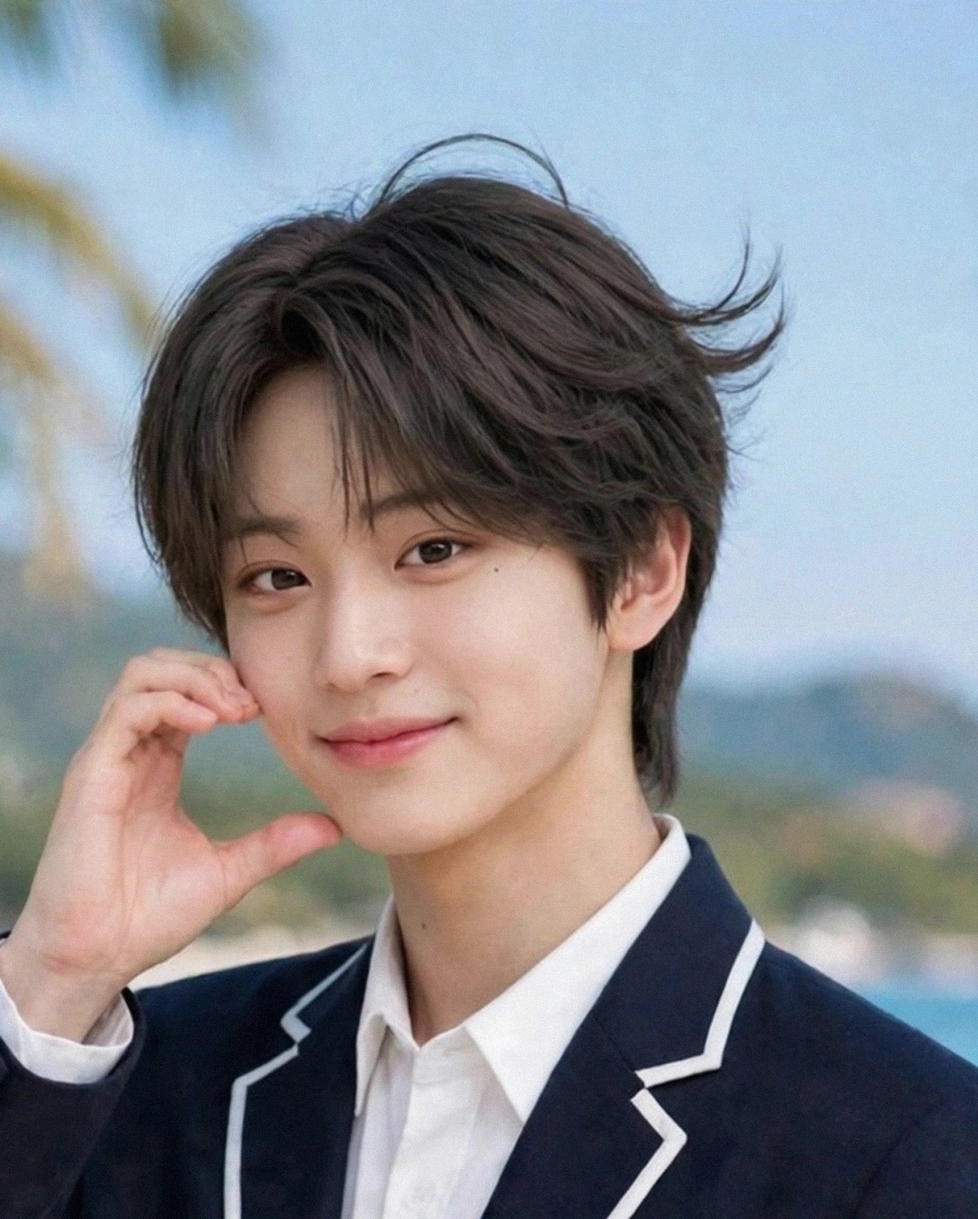
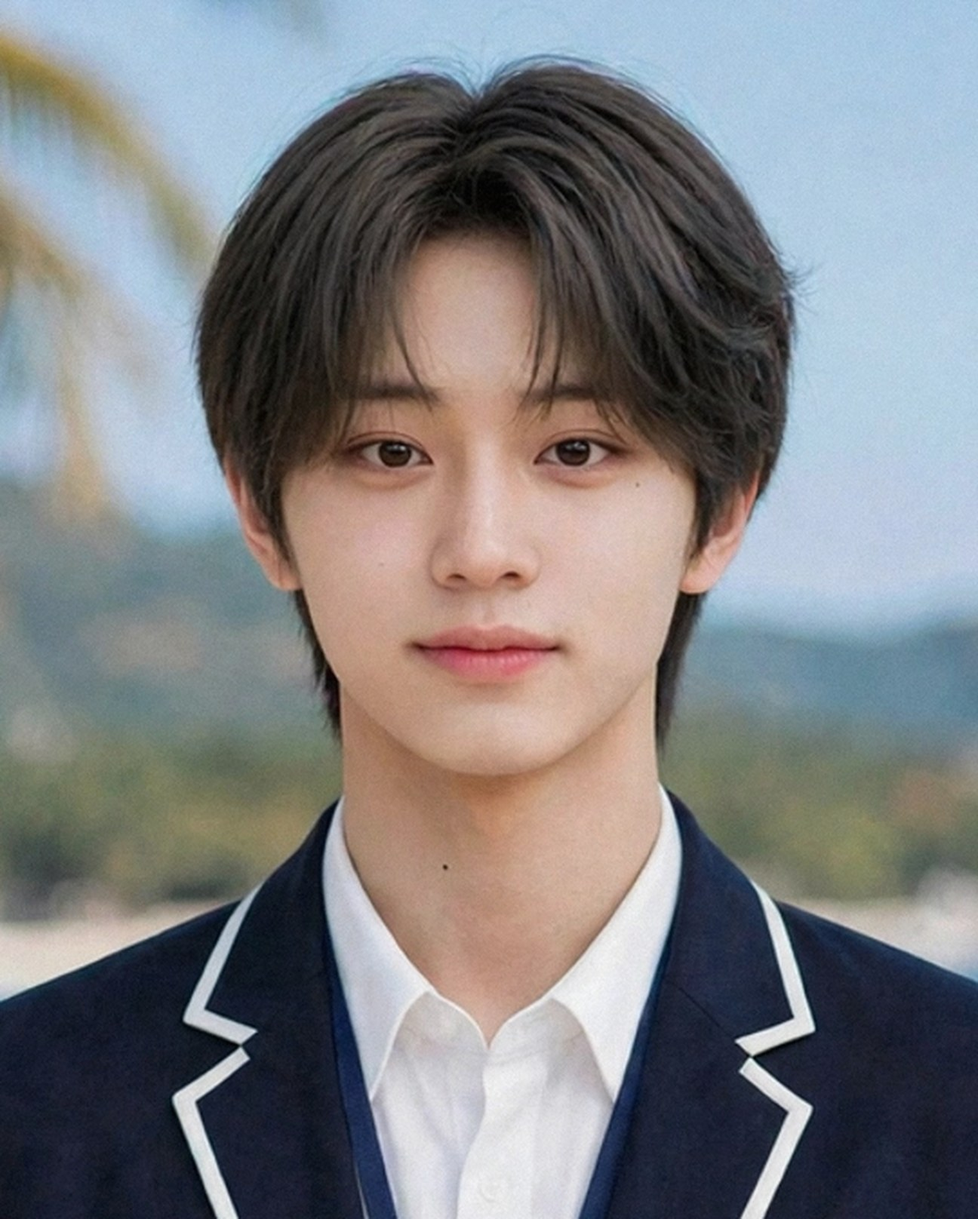
v173: プロフィール正面化（2023はstandard-finalに復帰＋寄り作り直し、2021は正面の公式プロフィールに再生成）

diff --git a/index.html b/index.html
@@ -820,7 +820,7 @@ body{font-family:-apple-system,"Hiragino Kaku Gothic ProN","Noto Sans JP",sans-s
 <script>
 "use strict";
 const $=s=>document.querySelector(s);
-const VER="v172";
+const VER="v173";
 /* ============ state ============ */
 const DEF={idx:0,started:false,consented:false,soundOn:true,
  g:{iwakan:0,bare:0,todoita:0,uta:8,dance:4,ishi:50},
@@ -2600,7 +2600,7 @@ function renderSettings(tab){setTab=tab;document.querySelectorAll("#set-tabs but
  <div class="srow"><span>到達した結末</span><span class="sv">${S.trueEnd?"TRUE END ― 現在":S.normalEnd?"END ― 通常現在":S.loopBad?"BAD END ― ループ継続":S.bareEnd?"END ― 秘密バレIF":S.ridatsuEnd?"END ― 離脱した現在":"（まだ到達していません）"}</span></div>
  <div class="srow"><span>サウンド</span><span class="sv"><button id="snd-btn" style="background:${S.soundOn!==false?"#17172a":"#c6c6d4"};color:#fff;border:none;border-radius:999px;padding:6px 18px;font-size:12.5px;font-weight:700;cursor:pointer">${S.soundOn!==false?"ON":"OFF"}</button></span></div>
  <div class="srow"><span>フィクション</span><span class="sv">実在の記録をもとにした創作です</span></div>
- <div class="srow"><span>アップデート</span><span class="sv">v16 サウンドと画面遷移／v17 差分再演REPLAYとDiff時代別表示／v18 現在の小さな変化／v19 トークのスレッドとフリーチャット／v20・v23・v32 場面カットの追加／v21 日常回（食堂の夜・売店の夜）／v22 番組アプリの情報デザイン／v24 ホーム背景の時代連動と進行％／v25 タイトルのスライドショー／v26 彼の画面のカウンタ／v27 ロック画面の通知スタック／v28 写真の全画面ビューア／v30 章ごとの記録カード／v31 フィナーレ直前の彼の視点／v33 フリーチャットの時代別応答／v34 投票レシート／v35 ミッション進捗バー／v36 ゲージの危険域表示／v37 選んだ記録の判別表示／v38 台帳の時代別表示／v39 Keepsakeの時代バッジ／v41 章名つきロック画面／v42 トークの新着バッジ／v43 名簿の詳細パネル／v44 写真のスワイプ送り／v45 BGMの時代連動／v46 順位・差分の専用SE／v47 長押し早送り／v48 章セレクト／v50 REPLAY再演の追加／v52 日常回（コンビニの夜）／v53 タイトル通知のセーブ連動／v54 アプリアイコンのバッジ／v55 主人公の正式名「三浦渚央」と2019プロフィールの新フェイス差し替え／v56〜v59 プロフィール・場面カットの新フェイス再生成／v60 カード画角の統一（頭部55〜60%）と三浦渚央の順位表示／v61 名簿メモへの順位追記と凡例／v62 周B順位発表の彼の視点／v63 ストーリーバナーのサムネ時代連動／v64 タイトルに正式名／v65 ロック画面に順位通知／v66 情報タブに順位の記録／v67 順位行の文字色修正／v68 現在の小さな変化（順位の残響）／v69 写真メモに順位結果／v70 節目 ― 全アプリ走査／v71 フリーチャットの話題追加／v72 トークのチップ追加／v73・v74 順位タブの空状態整理／v75 順位変動のDiff記録／v76 節目 ― 全アプリ走査／v77 2021周A・初回ステージ後に彼の画面を追加／v78 2023周A・ファンカム章に彼の視点（インライン）を追加／v79 2019周A・順位発表式に彼の視点（インライン）を追加／v80 2023周A・VERY NICE本番前に彼の視点（インライン）を追加／v81 2023周A・寮の夜に彼の視点（インライン）を追加／v82 2019周A・届くはずのなかった手紙に彼の視点（インライン）を追加／v83 フリーチャットの話題拡充（2019専用プール＋新キーワード6種＋チップ追加）／v84 周Aの彼の記憶の線引きで全監査（2021・2023到着場面と彼の画面3件を連続した同僚の前提に書き換え）／v85 2019周A・練習室の夜に彼の視点（インライン）を追加／v86 2021周A・寮の一夜に彼の視点（インライン）を追加／v87 2023周A・コンビニの夜に彼の視点（インライン）を追加／v88 台帳・Keepsake・Diffの時代分類を修正（NXD期グループ新設、誤分類6件を是正）／v89 場面カット追加（2023順位発表の夜・face2基準で新規生成）／v90 場面カット追加（2021ファイナルの夜・face2基準で新規生成）／v91 節目 ― 全アプリ走査／v92 日常回「自販機の夜」（2023・周B）を追加／v93 2019周A・レベル分け評価に彼の視点（インライン）を追加／v94 写真アプリに時代別グルーピング（見出し＋枚数）を追加／v95 場面カット追加（NXD期・夜の練習室、face2基準で新規生成）／v96 フリーチャットの時代別プールを拡充（各時代＋2件）／v97 2019周B・発覚に彼の視点（インライン）を追加／v98 2021周B・再会に彼の視点（インライン）を追加／v99 2023周B・発覚に彼の視点（インライン）を追加／v100 節目 ― 全編通しプレイ検証／v101 効果音の配線追加（台帳・Keepsake・彼の視点）／v102 トークに彼のメッセージを3件追加／v103 タイトルのスライドショー拡充（8枚）とホーム背景のNXD期差し替え／v104 2023周B・再会に彼の視点（インライン）を追加／v105 2021周B・売店の夜に彼の視点（インライン）を追加／v106 NXD期・周B「移籍の決断」に彼の視点（インライン）を追加／v107 2023周B・共同作戦に彼の視点（インライン）を追加／v108 2019周B・共同作戦（ツカメ対策）に彼の視点（インライン）を追加／v109 2021周B・共同作戦に彼の視点（インライン）を追加／v110 NXD期・周B「延期の季節 ― 二度目」に彼の視点（インライン）を追加／v111 フリーチャット拡充（キーワード応答3種・チップ2件・現在編プール拡充）／v112 節目 ― 全アプリ走査／v113 2023周B・自販機の夜に彼の視点（インライン）を追加／v114 2019周A・食堂の夜に彼の視点（インライン）を追加／v115 2021周B・順位発表の締めに彼の視点（インライン）を追加／v116 設計ドキュメントの実装状況を更新／v117 場面カット追加（2019食堂の夜・face2基準で新規生成）／v118 場面カット追加（2021売店の夜・face2基準で新規生成）／v119 場面カット追加（2023コンビニの夜・face2基準で新規生成）／v120 背景の差し替え（現在編の冒頭とソロデビューの場面）／v121 節目 ― 全編通しプレイ検証（v101〜v120の追加後）／v122 画像出典メモ（IMAGE_SOURCES.md）に新規カット6点とface2基準を追記／v123 READMEの状態表記を現行（本編完結・公開中）に更新／v124 視覚QAで発見した順位タブの防御的修正（順位値の欠損時に最低ラインへフォールバック）／v125 節目 ― 全画面の視覚QA（撮影確認）／v126 節目 ― 別エンディング到達検証（秘密バレIF・離脱した現在）／v127 節目 ― 全5エンディング到達検証の完了（通常現在・ループ継続BADを追加確認）／v128 設計ドキュメントの実装状況に最終検証結果を追記／v129 READMEの現行版表記を更新／v130 生成メタファイルを .gitignore に追加して作業ツリーを整理／v131 「届くはずのなかった手紙」に背景を設定（食堂カットの引き継ぎを解消）／v132 フリーチャットの応答拡充（キーワード応答8種・時代別プール各+2件・チップ2件を追加）／v133 仕上げのUI調整（ホームのアプリアイコンのラベルの可読性を向上、ストーリー画面のゲージチップを均等な3+3配置に整形）／v134 フリーチャットに語学の話題を追加（中国語・韓国語・英語へのキーワード応答）／v135 節目 ― 朝まで改修の最終版（全アプリ走査・ドキュメント同期）／v136 トークを実物化（1相手=1スレッドに集約・未読バッジ・プレビュー・実物時刻・日付チップ・自分の送信への既読表示。仕組みは『現役アイドル、Tinderやってた件』のLINEと『キープ管理中！』の未読管理から移植）／v137 2021・2023の渚央プロフィールを制服版に統一（創造営の紺制服／ボイプラの淡グレー制服。名簿・順位・パネル・背景・写真の参照を全て profile-uniform 系へ）／v138 ロック画面とホームの実物化（主通知の送信者を実アプリ名にし未読トークがあれば最新メッセージを表示、日付を月日＋曜日の実物形式に、ホームと写真の操作説明文を撤去）／v139 トークをTinder版（v462）LINEと実測比較して一致（バブルの角・色・文字サイズ、入力欄、送信ボタン、日付チップ、一覧の行構成と検索ボックス、スレッドヘッダーのアバター）／v140 トークにLINEアプリのシェルを移植（下部タブバー＋タブ画面を新設。タブの数・並び・切替挙動はTinder版LINEと同一で、ホームタブは三浦渚央のプロフィール＋届いた応援カード＋友だちリストのパネル、ニュースは番組アプリ、その他は設定・記録へ接続）／v141 ロック画面の進化（時計を88px・太字に、通知カードをblur20px＋saturateの実物仕様にして幅を統一、スタック通知のアイコンをアプリ別SVGに分けて出現をスタッガード化。ステータスバーと電池％を追加し、壁紙を時代連動＋緩やかなズームに。下部のライトは白フラッシュが光る実働ボタンに、カメラは写真アプリへ直行。通知はタップで該当アプリ・記録へ遷移）／v142 ホーム画面の進化（Tinder版ホームのページ構成を移植：飾りだったドットを実働の2ページ化にし、横スワイプとドットタップで切替。2ページ目に物語暦のカレンダーウィジェットと時代のカットが切り替わる写真ウィジェットを新設し、記録サマリと次のミッションを移設。ドットの横に検索ピルを追加し、アプリ・記録を検索して直接開けるシートを実装。下部にガラスのドック（トーク／写真／番組アプリ／設定・記録、バッジ連動）を追加。ステータスバーに電池％、壁紙に緩やかなズーム）／v143 ロック画面の通知スタックの隙間を修正（ベースCSSの上マージン34pxがスタック内の通知にも効いて間隔が42pxに広がっていたのを、実物どおり8pxに統一。あわせて通知領域を時計の下〜下部ボタンの上のスクロール領域にして、通知が多くてもライト／カメラのボタンやヒント文字に重ならないようにした）／v144 写真アプリの進化（『現役アイドル、Tinderやってた件』の写真アプリから移植：2列カード型だったグリッドを3列・隙間2px・正方形の実物仕様にし、時代見出し＋枚数のヘッダーと上部のピル型タブ（すべて／時代別で絞り込み）を新設。ビューアはお気に入り（セーブに保持、グリッドにもハート表示）とスライドショーを追加し、送りを循環式から端で止まるクランプ式に変更、キャプション＋差分メモ＋時代＋通し番号のメタ表示とキー操作に対応。複数選択モード（最大4枚）からコラージュを作成でき、ロック画面の壁紙にも設定できる（時代連動に戻す導線つき）。中身の時代別カットと枚数は従来どおり）／v145 アプリアイコンをTinder版の様式に統一（アイコンを全面SVG化し、背景レイヤーまで1枚に収める方式へ。トーク＝LINE・写真・設定・記録はTinder版と同型のアイコンに、番組アプリは金の縦グラデーション＋王冠のグリフで同水準に。アイコンの角丸と影もTinder版の実測値に一致。あわせてラベル用ピルのCSSがドックのアイコンにも漏れて円形になっていた不具合を修正し、ドックでもグリッドと同じ角丸アイコンが並ぶようにした）／v147 渚央の顔を最終基準（本人の写真由来の顔＋クールな髪型）へ差し替え開始。2023編のプロフィール（基準画像そのものへ差し替え、カード用クロップも新基準で作成）と場面カット全8点を基準顔で再生成／v148 2021編を新基準へ差し替え（プロフィールは19歳相当＋創造営制服＋屋外背景で新規生成、カード用クロップも作成。場面カット5点＝daily／practice／ranking-close／study／shop-nightを19歳相当の基準顔で再生成。stageは次版で差し替え予定）／v149 2019編を新基準へ全面差し替え（プロフィールは17歳相当で再生成し直し、カード用クロップも新規作成。場面カット7点＝stage／stage2／dorm／practice／ranking-close／selfie／cafeteriaを17歳相当の基準顔で再生成）。リンクプレビュー用のog:image（新stageから作成）も新設／v150 旧素材（候補ファイル群・旧プロフィール）を保管庫へ退避し、顔素材を新基準のラインに統一（表示内容の変更なし）／v151 2021のステージカットを新顔基準（19歳版）で差し替え、顔の全面差し替えが完了／v153 2021プロフィールに創造営の学員証を追加（メンバーが付けている装着物に合わせた。2019は名札が既存仕様どおり、2023は装着物なしが実物どおり）。<br>v152 全時代のプロフィールをポーズ付きに作り直し（2019＝ガッツポーズの全身ショット、2021＝頬ハートの膝上ショット、2023＝腕組みのウエスト上ショット。顔は新基準のラインを維持し、寄りクロップも新しい全身から作り直し）<br>v154 全身カットの脚の比率を修正（2019・2021の練習室カットを脚長・細身のモデル体型プロポーションで再生成。構図・ポーズ・顔は維持）<br>v155 鼻の大きさを基準顔に修正（2019ステージカットと順位発表カットの鼻を、基準の小さく細い鼻筋＋小さく上向きの鼻先に寄せて再生成。構図・衣装・表情は維持）<br>v156 「彼の画面」を現代のモバイルADV風に作り替え（時代の場面カットをぼかしたシネマティック背景＋暗グラデーション、大翔のアバター＋名前チップのヘッダー、進行は紫ピルをやめてグラデーションのプログレスバー＋控えめな件数表示に。心の声は字幕風の中央テキスト＋ヘアライン区切り、セリフはガラス質の吹き出しカードにし、金枠と紫イタリックを廃止。終わりは白ピルの「戻る」ボタン。本文・分岐・ゲージの仕様は不変。物語内の彼の視点カードも同じ質感に統一）<br>v157 番組アプリのリアル化（お知らせタブを新設し、時代と進行に連動する事務局・投票・コンテンツ通知を掲載。結果のお知らせからは順位タブへ遷移。名簿の詳細をプロフィールページ化：ヒーロー写真＋名前オーバーレイ＋区分・番組の情報行＋順位の記録テーブル（彼の初回12位など史実と周ごとの結果を、発表済みの分だけ表示）＋渚央のスキルバー。順位タブの大翔・渚央の周B行に前回比の変動チップ▲を追加）<br>v158 設定・記録のリアル化（情報タブをiOS設定風に：作品情報／いまの記録／サウンド／履歴のグループカード化、サウンドはピルボタンからiOSトグルスイッチに、長いアップデート履歴は開閉式に収納。表示テキストは全て従来どおり。ゲージ・台帳・Keepsake・Diff・章の各タブはカード型の行＋チップ見出しで履歴・メモ系UIの質感に統一。ゲージ説明や順位計算などの仕様・文言は不変）<br>v162 周Bの記憶ルールを新仕様に統一（彼の記憶は周B開始時＝2019年の再会で大周回Aの全部が一度に戻る。旧仕様「時代ごとに、その時代ぶんが順に戻る」は廃止。2019編の発覚を全部戻った前提の大きな一場面に書き直し、2021・2023編の再会は「その時代の記憶が戻る・既視感から確信」ではなく確認と共同作戦の続きに書き換え。彼の視点・幕間・ロック画面の通知文も同じ前提に統一。ゲージ・分岐・順位計算などの数値仕様は不変）<br>v163 2019の2点（ステージ／順位発表の寄り）の鼻を再修正（v155で小さく寄りすぎていたものを、基準顔の比率どおりの自然な大きさに戻して再生成。顔・構図・衣装は維持。og画像も新しいステージカットから作り直し）<br>v164 2019のプロフィールを実物どおりの素立ちバストショットに戻した（PRODUCE 101 JAPANの公式プロフィールはポーズなしの素立ちが実物のため、v152のガッツポーズ全身は2019に限って撤回。グレーブレザー＋青チェックタイ＋名札は維持し、寄りクロップも新しいバストショットから作り直し。他時代のプロフィールは各時代の公式写真に合わせる原則どおり据え置き）<br>v165 周Bの順位に下限（フロア）を保証（大翔の周B順位は、プレイ内容によらず必ず周Aより上になるよう最低上昇幅を保証：2019は35位以下にならない／2021は14位以下にならない／2023は20位以下にならない。デビュー圏外の上限＝従来どおり。渚央の周B順位36／16／19位が周A 38／18／22位より上であることも全時代で再確認。計算式そのものと、届いた数の扱いなどの仕様文言は不変）<br>v166 楽曲が分かる場面カットの衣装を当時の実物に合わせて作り直し（2021ステージ＝創造営2021・初評級ステージの曲目 MAMAMOO『HIP -Japanese ver.-』でRBWチームが着た赤のスパンコール・オーバーサイズトップス＋黒カーゴに変更。従来の龍刺繍ジャケットは当時の衣装ではないため差し替え。2023ファンカム2点目（エンディング妖精）と新規ステージカット＝BOYS PLANET『VERY NICE』Gグループの実物衣装（白ベレー帽＋オレンジ×白の太ボーダーのラガーシャツ）に変更し、新規カットは周A・周B両方のVERY NICE本番場面の背景に配線。根拠は本人の公式直カムサムネイル等の実物資料）／v167 周Bは二人ともファイナルまで残る仕様に変更（本人の決定）：大翔の周B順位帯をファイナリスト範囲へ（2019：12〜20位／2023：実効14〜18位。2021は従来の計算で12〜14位＝範囲内のため据え置き）、渚央の周B順位を2019：17位・2023：14位に変更（2021：16位は据え置き）。順位行・名簿メモ・彼の視点・現在インタールードのテロップ・2019／2023編Bの順位発表の文章をファイナル到達で整合。デビューできない結末（Canon Lock 第1層）は不変／v168 周B 2019編にコンセプト評価『やんちゃBOYやんちゃGIRL』の場面を追加（本人の確定指定）：史実でも大翔はマッチング投票で同曲のセンター・サブボーカルに選ばれていたが第2回発表36位で脱落し立てなかったため、周Bでは二人とも同じチームで実際に立つ形にした（周Aの渚央は第2回発表で脱落するため登場しない）。衣装は実物（紺の学ラン風ブレザー＋白パイピング＋黄ストライプシャツ＋手紙の小道具）に合わせた新規カットを追加／v169 衣装ルールを訂正（本人の指示）：大翔とまったく同じ衣装はNGで、系統（色味・素材感・コンセプト）だけ合わせて別デザインにする。創造営の赤スパンコールは系統（赤）を保ちつつギラギラを抑えた洗練デザイン（マットな深紅のシャツジャケット＋黒ワイドパンツ）に作り直し。VERY NICEの3点（ファンカム／ステージ／寄り）も大翔と同一だった白ベレー＋太ボーダーラガーをやめ、オレンジ×白の系統を保った別デザイン（細ボーダーのニットポロ＋白ワイドパンツ）に統一して作り直し。2原則は docs/ASSETS_NAO.md の衣装ルールに記録／v170 プロフィール画像の質感を各時代の公式写真に合わせた（本人の指摘「画質がクリアすぎる」）：プロフィール系8点（2019フル／寄り、2021制服／寄り／寄り（人気表示用）、2023制服／寄り／寄り（人気表示用））に、軽い縮小→拡大によるシャープさ低減＋微粒子グレイン＋コントラスト抑制の後処理を時代別に適用。2019を最強に処理。顔そのもの（基準顔・比率）は不変。生成基準マスターの standard-final は対象外／v171 番組アプリの表示修正（タブの折り返しを解消、名簿カードのメタ文の折り返しと高さを統一、名簿詳細を背面が漏れないプロフィールページ表示に変更）／v172 女の子らしさの監査と修正（本人の指摘）：表示中の渚央カット全点を「男性練習生として読めるか」で監査し、逸脱した4点（2023 VERY NICEの個人ファンカム／ステージ／寄り、2019 やんちゃBOYやんちゃGIRL）を作り直した。基準顔は維持し、髪を短めですっきりした男性ヘアに、表情と雰囲気を少年の爽やかさ側に寄せた。衣装の系統と構図は維持</span></div>
+ <div class="srow"><span>アップデート</span><span class="sv">v16 サウンドと画面遷移／v17 差分再演REPLAYとDiff時代別表示／v18 現在の小さな変化／v19 トークのスレッドとフリーチャット／v20・v23・v32 場面カットの追加／v21 日常回（食堂の夜・売店の夜）／v22 番組アプリの情報デザイン／v24 ホーム背景の時代連動と進行％／v25 タイトルのスライドショー／v26 彼の画面のカウンタ／v27 ロック画面の通知スタック／v28 写真の全画面ビューア／v30 章ごとの記録カード／v31 フィナーレ直前の彼の視点／v33 フリーチャットの時代別応答／v34 投票レシート／v35 ミッション進捗バー／v36 ゲージの危険域表示／v37 選んだ記録の判別表示／v38 台帳の時代別表示／v39 Keepsakeの時代バッジ／v41 章名つきロック画面／v42 トークの新着バッジ／v43 名簿の詳細パネル／v44 写真のスワイプ送り／v45 BGMの時代連動／v46 順位・差分の専用SE／v47 長押し早送り／v48 章セレクト／v50 REPLAY再演の追加／v52 日常回（コンビニの夜）／v53 タイトル通知のセーブ連動／v54 アプリアイコンのバッジ／v55 主人公の正式名「三浦渚央」と2019プロフィールの新フェイス差し替え／v56〜v59 プロフィール・場面カットの新フェイス再生成／v60 カード画角の統一（頭部55〜60%）と三浦渚央の順位表示／v61 名簿メモへの順位追記と凡例／v62 周B順位発表の彼の視点／v63 ストーリーバナーのサムネ時代連動／v64 タイトルに正式名／v65 ロック画面に順位通知／v66 情報タブに順位の記録／v67 順位行の文字色修正／v68 現在の小さな変化（順位の残響）／v69 写真メモに順位結果／v70 節目 ― 全アプリ走査／v71 フリーチャットの話題追加／v72 トークのチップ追加／v73・v74 順位タブの空状態整理／v75 順位変動のDiff記録／v76 節目 ― 全アプリ走査／v77 2021周A・初回ステージ後に彼の画面を追加／v78 2023周A・ファンカム章に彼の視点（インライン）を追加／v79 2019周A・順位発表式に彼の視点（インライン）を追加／v80 2023周A・VERY NICE本番前に彼の視点（インライン）を追加／v81 2023周A・寮の夜に彼の視点（インライン）を追加／v82 2019周A・届くはずのなかった手紙に彼の視点（インライン）を追加／v83 フリーチャットの話題拡充（2019専用プール＋新キーワード6種＋チップ追加）／v84 周Aの彼の記憶の線引きで全監査（2021・2023到着場面と彼の画面3件を連続した同僚の前提に書き換え）／v85 2019周A・練習室の夜に彼の視点（インライン）を追加／v86 2021周A・寮の一夜に彼の視点（インライン）を追加／v87 2023周A・コンビニの夜に彼の視点（インライン）を追加／v88 台帳・Keepsake・Diffの時代分類を修正（NXD期グループ新設、誤分類6件を是正）／v89 場面カット追加（2023順位発表の夜・face2基準で新規生成）／v90 場面カット追加（2021ファイナルの夜・face2基準で新規生成）／v91 節目 ― 全アプリ走査／v92 日常回「自販機の夜」（2023・周B）を追加／v93 2019周A・レベル分け評価に彼の視点（インライン）を追加／v94 写真アプリに時代別グルーピング（見出し＋枚数）を追加／v95 場面カット追加（NXD期・夜の練習室、face2基準で新規生成）／v96 フリーチャットの時代別プールを拡充（各時代＋2件）／v97 2019周B・発覚に彼の視点（インライン）を追加／v98 2021周B・再会に彼の視点（インライン）を追加／v99 2023周B・発覚に彼の視点（インライン）を追加／v100 節目 ― 全編通しプレイ検証／v101 効果音の配線追加（台帳・Keepsake・彼の視点）／v102 トークに彼のメッセージを3件追加／v103 タイトルのスライドショー拡充（8枚）とホーム背景のNXD期差し替え／v104 2023周B・再会に彼の視点（インライン）を追加／v105 2021周B・売店の夜に彼の視点（インライン）を追加／v106 NXD期・周B「移籍の決断」に彼の視点（インライン）を追加／v107 2023周B・共同作戦に彼の視点（インライン）を追加／v108 2019周B・共同作戦（ツカメ対策）に彼の視点（インライン）を追加／v109 2021周B・共同作戦に彼の視点（インライン）を追加／v110 NXD期・周B「延期の季節 ― 二度目」に彼の視点（インライン）を追加／v111 フリーチャット拡充（キーワード応答3種・チップ2件・現在編プール拡充）／v112 節目 ― 全アプリ走査／v113 2023周B・自販機の夜に彼の視点（インライン）を追加／v114 2019周A・食堂の夜に彼の視点（インライン）を追加／v115 2021周B・順位発表の締めに彼の視点（インライン）を追加／v116 設計ドキュメントの実装状況を更新／v117 場面カット追加（2019食堂の夜・face2基準で新規生成）／v118 場面カット追加（2021売店の夜・face2基準で新規生成）／v119 場面カット追加（2023コンビニの夜・face2基準で新規生成）／v120 背景の差し替え（現在編の冒頭とソロデビューの場面）／v121 節目 ― 全編通しプレイ検証（v101〜v120の追加後）／v122 画像出典メモ（IMAGE_SOURCES.md）に新規カット6点とface2基準を追記／v123 READMEの状態表記を現行（本編完結・公開中）に更新／v124 視覚QAで発見した順位タブの防御的修正（順位値の欠損時に最低ラインへフォールバック）／v125 節目 ― 全画面の視覚QA（撮影確認）／v126 節目 ― 別エンディング到達検証（秘密バレIF・離脱した現在）／v127 節目 ― 全5エンディング到達検証の完了（通常現在・ループ継続BADを追加確認）／v128 設計ドキュメントの実装状況に最終検証結果を追記／v129 READMEの現行版表記を更新／v130 生成メタファイルを .gitignore に追加して作業ツリーを整理／v131 「届くはずのなかった手紙」に背景を設定（食堂カットの引き継ぎを解消）／v132 フリーチャットの応答拡充（キーワード応答8種・時代別プール各+2件・チップ2件を追加）／v133 仕上げのUI調整（ホームのアプリアイコンのラベルの可読性を向上、ストーリー画面のゲージチップを均等な3+3配置に整形）／v134 フリーチャットに語学の話題を追加（中国語・韓国語・英語へのキーワード応答）／v135 節目 ― 朝まで改修の最終版（全アプリ走査・ドキュメント同期）／v136 トークを実物化（1相手=1スレッドに集約・未読バッジ・プレビュー・実物時刻・日付チップ・自分の送信への既読表示。仕組みは『現役アイドル、Tinderやってた件』のLINEと『キープ管理中！』の未読管理から移植）／v137 2021・2023の渚央プロフィールを制服版に統一（創造営の紺制服／ボイプラの淡グレー制服。名簿・順位・パネル・背景・写真の参照を全て profile-uniform 系へ）／v138 ロック画面とホームの実物化（主通知の送信者を実アプリ名にし未読トークがあれば最新メッセージを表示、日付を月日＋曜日の実物形式に、ホームと写真の操作説明文を撤去）／v139 トークをTinder版（v462）LINEと実測比較して一致（バブルの角・色・文字サイズ、入力欄、送信ボタン、日付チップ、一覧の行構成と検索ボックス、スレッドヘッダーのアバター）／v140 トークにLINEアプリのシェルを移植（下部タブバー＋タブ画面を新設。タブの数・並び・切替挙動はTinder版LINEと同一で、ホームタブは三浦渚央のプロフィール＋届いた応援カード＋友だちリストのパネル、ニュースは番組アプリ、その他は設定・記録へ接続）／v141 ロック画面の進化（時計を88px・太字に、通知カードをblur20px＋saturateの実物仕様にして幅を統一、スタック通知のアイコンをアプリ別SVGに分けて出現をスタッガード化。ステータスバーと電池％を追加し、壁紙を時代連動＋緩やかなズームに。下部のライトは白フラッシュが光る実働ボタンに、カメラは写真アプリへ直行。通知はタップで該当アプリ・記録へ遷移）／v142 ホーム画面の進化（Tinder版ホームのページ構成を移植：飾りだったドットを実働の2ページ化にし、横スワイプとドットタップで切替。2ページ目に物語暦のカレンダーウィジェットと時代のカットが切り替わる写真ウィジェットを新設し、記録サマリと次のミッションを移設。ドットの横に検索ピルを追加し、アプリ・記録を検索して直接開けるシートを実装。下部にガラスのドック（トーク／写真／番組アプリ／設定・記録、バッジ連動）を追加。ステータスバーに電池％、壁紙に緩やかなズーム）／v143 ロック画面の通知スタックの隙間を修正（ベースCSSの上マージン34pxがスタック内の通知にも効いて間隔が42pxに広がっていたのを、実物どおり8pxに統一。あわせて通知領域を時計の下〜下部ボタンの上のスクロール領域にして、通知が多くてもライト／カメラのボタンやヒント文字に重ならないようにした）／v144 写真アプリの進化（『現役アイドル、Tinderやってた件』の写真アプリから移植：2列カード型だったグリッドを3列・隙間2px・正方形の実物仕様にし、時代見出し＋枚数のヘッダーと上部のピル型タブ（すべて／時代別で絞り込み）を新設。ビューアはお気に入り（セーブに保持、グリッドにもハート表示）とスライドショーを追加し、送りを循環式から端で止まるクランプ式に変更、キャプション＋差分メモ＋時代＋通し番号のメタ表示とキー操作に対応。複数選択モード（最大4枚）からコラージュを作成でき、ロック画面の壁紙にも設定できる（時代連動に戻す導線つき）。中身の時代別カットと枚数は従来どおり）／v145 アプリアイコンをTinder版の様式に統一（アイコンを全面SVG化し、背景レイヤーまで1枚に収める方式へ。トーク＝LINE・写真・設定・記録はTinder版と同型のアイコンに、番組アプリは金の縦グラデーション＋王冠のグリフで同水準に。アイコンの角丸と影もTinder版の実測値に一致。あわせてラベル用ピルのCSSがドックのアイコンにも漏れて円形になっていた不具合を修正し、ドックでもグリッドと同じ角丸アイコンが並ぶようにした）／v147 渚央の顔を最終基準（本人の写真由来の顔＋クールな髪型）へ差し替え開始。2023編のプロフィール（基準画像そのものへ差し替え、カード用クロップも新基準で作成）と場面カット全8点を基準顔で再生成／v148 2021編を新基準へ差し替え（プロフィールは19歳相当＋創造営制服＋屋外背景で新規生成、カード用クロップも作成。場面カット5点＝daily／practice／ranking-close／study／shop-nightを19歳相当の基準顔で再生成。stageは次版で差し替え予定）／v149 2019編を新基準へ全面差し替え（プロフィールは17歳相当で再生成し直し、カード用クロップも新規作成。場面カット7点＝stage／stage2／dorm／practice／ranking-close／selfie／cafeteriaを17歳相当の基準顔で再生成）。リンクプレビュー用のog:image（新stageから作成）も新設／v150 旧素材（候補ファイル群・旧プロフィール）を保管庫へ退避し、顔素材を新基準のラインに統一（表示内容の変更なし）／v151 2021のステージカットを新顔基準（19歳版）で差し替え、顔の全面差し替えが完了／v153 2021プロフィールに創造営の学員証を追加（メンバーが付けている装着物に合わせた。2019は名札が既存仕様どおり、2023は装着物なしが実物どおり）。<br>v152 全時代のプロフィールをポーズ付きに作り直し（2019＝ガッツポーズの全身ショット、2021＝頬ハートの膝上ショット、2023＝腕組みのウエスト上ショット。顔は新基準のラインを維持し、寄りクロップも新しい全身から作り直し）<br>v154 全身カットの脚の比率を修正（2019・2021の練習室カットを脚長・細身のモデル体型プロポーションで再生成。構図・ポーズ・顔は維持）<br>v155 鼻の大きさを基準顔に修正（2019ステージカットと順位発表カットの鼻を、基準の小さく細い鼻筋＋小さく上向きの鼻先に寄せて再生成。構図・衣装・表情は維持）<br>v156 「彼の画面」を現代のモバイルADV風に作り替え（時代の場面カットをぼかしたシネマティック背景＋暗グラデーション、大翔のアバター＋名前チップのヘッダー、進行は紫ピルをやめてグラデーションのプログレスバー＋控えめな件数表示に。心の声は字幕風の中央テキスト＋ヘアライン区切り、セリフはガラス質の吹き出しカードにし、金枠と紫イタリックを廃止。終わりは白ピルの「戻る」ボタン。本文・分岐・ゲージの仕様は不変。物語内の彼の視点カードも同じ質感に統一）<br>v157 番組アプリのリアル化（お知らせタブを新設し、時代と進行に連動する事務局・投票・コンテンツ通知を掲載。結果のお知らせからは順位タブへ遷移。名簿の詳細をプロフィールページ化：ヒーロー写真＋名前オーバーレイ＋区分・番組の情報行＋順位の記録テーブル（彼の初回12位など史実と周ごとの結果を、発表済みの分だけ表示）＋渚央のスキルバー。順位タブの大翔・渚央の周B行に前回比の変動チップ▲を追加）<br>v158 設定・記録のリアル化（情報タブをiOS設定風に：作品情報／いまの記録／サウンド／履歴のグループカード化、サウンドはピルボタンからiOSトグルスイッチに、長いアップデート履歴は開閉式に収納。表示テキストは全て従来どおり。ゲージ・台帳・Keepsake・Diff・章の各タブはカード型の行＋チップ見出しで履歴・メモ系UIの質感に統一。ゲージ説明や順位計算などの仕様・文言は不変）<br>v162 周Bの記憶ルールを新仕様に統一（彼の記憶は周B開始時＝2019年の再会で大周回Aの全部が一度に戻る。旧仕様「時代ごとに、その時代ぶんが順に戻る」は廃止。2019編の発覚を全部戻った前提の大きな一場面に書き直し、2021・2023編の再会は「その時代の記憶が戻る・既視感から確信」ではなく確認と共同作戦の続きに書き換え。彼の視点・幕間・ロック画面の通知文も同じ前提に統一。ゲージ・分岐・順位計算などの数値仕様は不変）<br>v163 2019の2点（ステージ／順位発表の寄り）の鼻を再修正（v155で小さく寄りすぎていたものを、基準顔の比率どおりの自然な大きさに戻して再生成。顔・構図・衣装は維持。og画像も新しいステージカットから作り直し）<br>v164 2019のプロフィールを実物どおりの素立ちバストショットに戻した（PRODUCE 101 JAPANの公式プロフィールはポーズなしの素立ちが実物のため、v152のガッツポーズ全身は2019に限って撤回。グレーブレザー＋青チェックタイ＋名札は維持し、寄りクロップも新しいバストショットから作り直し。他時代のプロフィールは各時代の公式写真に合わせる原則どおり据え置き）<br>v165 周Bの順位に下限（フロア）を保証（大翔の周B順位は、プレイ内容によらず必ず周Aより上になるよう最低上昇幅を保証：2019は35位以下にならない／2021は14位以下にならない／2023は20位以下にならない。デビュー圏外の上限＝従来どおり。渚央の周B順位36／16／19位が周A 38／18／22位より上であることも全時代で再確認。計算式そのものと、届いた数の扱いなどの仕様文言は不変）<br>v166 楽曲が分かる場面カットの衣装を当時の実物に合わせて作り直し（2021ステージ＝創造営2021・初評級ステージの曲目 MAMAMOO『HIP -Japanese ver.-』でRBWチームが着た赤のスパンコール・オーバーサイズトップス＋黒カーゴに変更。従来の龍刺繍ジャケットは当時の衣装ではないため差し替え。2023ファンカム2点目（エンディング妖精）と新規ステージカット＝BOYS PLANET『VERY NICE』Gグループの実物衣装（白ベレー帽＋オレンジ×白の太ボーダーのラガーシャツ）に変更し、新規カットは周A・周B両方のVERY NICE本番場面の背景に配線。根拠は本人の公式直カムサムネイル等の実物資料）／v167 周Bは二人ともファイナルまで残る仕様に変更（本人の決定）：大翔の周B順位帯をファイナリスト範囲へ（2019：12〜20位／2023：実効14〜18位。2021は従来の計算で12〜14位＝範囲内のため据え置き）、渚央の周B順位を2019：17位・2023：14位に変更（2021：16位は据え置き）。順位行・名簿メモ・彼の視点・現在インタールードのテロップ・2019／2023編Bの順位発表の文章をファイナル到達で整合。デビューできない結末（Canon Lock 第1層）は不変／v168 周B 2019編にコンセプト評価『やんちゃBOYやんちゃGIRL』の場面を追加（本人の確定指定）：史実でも大翔はマッチング投票で同曲のセンター・サブボーカルに選ばれていたが第2回発表36位で脱落し立てなかったため、周Bでは二人とも同じチームで実際に立つ形にした（周Aの渚央は第2回発表で脱落するため登場しない）。衣装は実物（紺の学ラン風ブレザー＋白パイピング＋黄ストライプシャツ＋手紙の小道具）に合わせた新規カットを追加／v169 衣装ルールを訂正（本人の指示）：大翔とまったく同じ衣装はNGで、系統（色味・素材感・コンセプト）だけ合わせて別デザインにする。創造営の赤スパンコールは系統（赤）を保ちつつギラギラを抑えた洗練デザイン（マットな深紅のシャツジャケット＋黒ワイドパンツ）に作り直し。VERY NICEの3点（ファンカム／ステージ／寄り）も大翔と同一だった白ベレー＋太ボーダーラガーをやめ、オレンジ×白の系統を保った別デザイン（細ボーダーのニットポロ＋白ワイドパンツ）に統一して作り直し。2原則は docs/ASSETS_NAO.md の衣装ルールに記録／v170 プロフィール画像の質感を各時代の公式写真に合わせた（本人の指摘「画質がクリアすぎる」）：プロフィール系8点（2019フル／寄り、2021制服／寄り／寄り（人気表示用）、2023制服／寄り／寄り（人気表示用））に、軽い縮小→拡大によるシャープさ低減＋微粒子グレイン＋コントラスト抑制の後処理を時代別に適用。2019を最強に処理。顔そのもの（基準顔・比率）は不変。生成基準マスターの standard-final は対象外／v171 番組アプリの表示修正（タブの折り返しを解消、名簿カードのメタ文の折り返しと高さを統一、名簿詳細を背面が漏れないプロフィールページ表示に変更）／v172 女の子らしさの監査と修正（本人の指摘）：表示中の渚央カット全点を「男性練習生として読めるか」で監査し、逸脱した4点（2023 VERY NICEの個人ファンカム／ステージ／寄り、2019 やんちゃBOYやんちゃGIRL）を作り直した。基準顔は維持し、髪を短めですっきりした男性ヘアに、表情と雰囲気を少年の爽やかさ側に寄せた。衣装の系統と構図は維持／v173 プロフィールの正面化（本人の指摘）：名簿・プロフィール用途の渚央を、他メンバーと同じほぼ正面・顔まっすぐの公式プロフィール画角に統一。2023は基準のstandard-final（正面）に戻して寄り2種も作り直し、2021は斜め向き＋頬ハートポーズをやめて正面の公式プロフィールに再生成（創造営の制服・屋外背景・学員証は維持）。2019は正面で問題なし</span></div>
  <div class="pad"><p class="small">エンディングは5種（TRUE現在／通常現在／離脱した現在／秘密バレIF／ループ継続BAD）。結末は、彼の岐路での関わり・手がかり（Keepsakeと届いた数）・男装バレ度・最後の選択で分かれます。なお「デビューしてしまう現在」はIF候補として設計にのみ記録され、本編では採用していません（デビューメンバー構成は不変のため）。</p></div>
  <div class="pad"><button class="btn" id="reset-btn" style="background:#ff3b30">データを消して最初から</button></div>`;
  const rb=$("#reset-btn");if(rb)rb.onclick=()=>{if(confirm("セーブデータを消して最初から始めますか？")){localStorage.removeItem("tlSaveV2");location.reload();}};

diff --git a/docs/ASSETS_NAO.md b/docs/ASSETS_NAO.md
@@ -148,6 +148,21 @@
 2. **創造営の赤いギラギラ衣装は作り直し**：2021の赤スパンコール系は、系統（赤）は保ちつつギラギラ感を抑えた今どきで洗練されたデザインにする。チープ・ダサく見える装飾過多は避ける
 - 適用例（v169）：2021 stage（HIP）は赤の系統を保った別デザイン（マットな深紅）へ、2023 fancam2／verynice／fancam-close（VERY NICE）は白ベレー＋太ボーダーラガーシャツという大翔と同一のコーデをやめ、オレンジ×白の系統を保った別デザイン（細ボーダーのニット）へ作り直した
 
+## 「女の子らしすぎ」監査（2026-11-09 本人指摘・v172で修正）
+- 本人の指摘：2023個人ファンカム（VERY NICE、オレンジのボーダーニットポロ）が女の子らしすぎる。渚央は男装の男性練習生として読めなければならない
+- 表示中の渚央カット全32点（表示30点＋人気表示用の寄り2点）を「男性練習生として読めるか」で監査。逸脱は4点：2023 fancam2／verynice／fancam-close（VERY NICE 3点。長めの髪・顔周りの毛束・甘い笑顔で女性らしく読めた）、2019 yancha（髪が顎下まであり女性らしく読めた）
+- 修正方法：基準顔（standard-final）のパーツ・比率は変えず、髪を短めですっきりした男性ヘア（暗めアッシュブラウン、センターパート、サイド・襟足は短く、顔周りに垂れる長い毛束なし）にし、表情・雰囲気を少年の爽やかさ側へ。衣装の系統（VERY NICE＝オレンジ×白の細ボーダーニットポロ＋白襟／yancha＝紺ブレザー＋黄ストライプ＋手紙）と構図は維持
+- 生成マスター（webp）は ~/workspace/imagine_media/ に media-generation-nao-2023-fancam2-masculine-* / -verynice-masculine-* / -fancamclose-masculine-* / media-generation-nao-2019-yancha-masculine-* として残存。旧カットは hidden_files/nao-genderfix-backup/ に保管
+- 今後の生成でも、髪の長さ・毛流れと表情の甘さで女性らしく読めないかを必ず確認すること（顔の同一性監査とセットで実施）
+
+## プロフィールはほぼ正面が正（2026-11-09 本人指摘・v173で統一）
+- 本人の指摘：名簿の渚央カード（2023）が斜め向きすぎる。他の練習生は全員ほぼ正面の公式プロフィールなのに渚央だけ斜めで浮く
+- ルール：**名簿・プロフィール用途の渚央の顔写真は、他メンバーと同じ「ほぼ正面・顔まっすぐ」の公式プロフィール画角にする**。v152のポーズ付け（2021頬ハート／2023腕組み＋斜め）はプロフィール用途には適用しない（2019の v164「ポーズなし」と同じ趣旨を全時代に拡張）。場面カット（ステージ・日常）の斜め・横顔は自然なので対象外
+- 2023：profile-uniform を基準の standard-final（完全正面）に戻し、寄り2種（profile-uniform-close／profile-close）も standard-final から頭部57〜60%で作り直し
+- 2021：profile-uniform を正面の公式プロフィールで再生成（斜め向き＋頬ハートを廃止。創造営の紺制服＋白パイピング＋三角ロゴ、屋外（島・海）背景、学員証は維持。学員証の名前は「三浦渚央」と正しく表記されるよう修正済み）。寄り2種も新プロフィールから頭部57〜60%で作り直し、v170の質感後処理も適用。生成マスターは media-generation-nao-2021-profile-frontal-fix-*
+- 2019：profile-face3b-full／close2 は正面の素立ちで問題なし（変更なし）
+- 旧カットは hidden_files/nao-genderfix-backup/ に保管
+
 ## プロフィールの質感（2026-11-09 本人指摘・v170で適用）
 - 生成画像は画質がクリアすぎるため、プロフィール系は各時代の実在公式写真の質感に寄せる：軽い縮小→拡大でAI特有のシャープさを落とし、微粒子グレインを加え、コントラストを少し下げて時代の色調に寄せる後処理を行う。顔そのもの（基準顔・比率）は変えない
 - 適用済み（v170）：2019 profile-face3b-full／close2（最強）、2021 profile-uniform／同close／profile-close、2023 profile-uniform／同close／profile-close。standard-final.jpg（生成の基準マスター）は同一性維持のため対象外。元のファイルは hidden_files/texture-backup/ に保管
